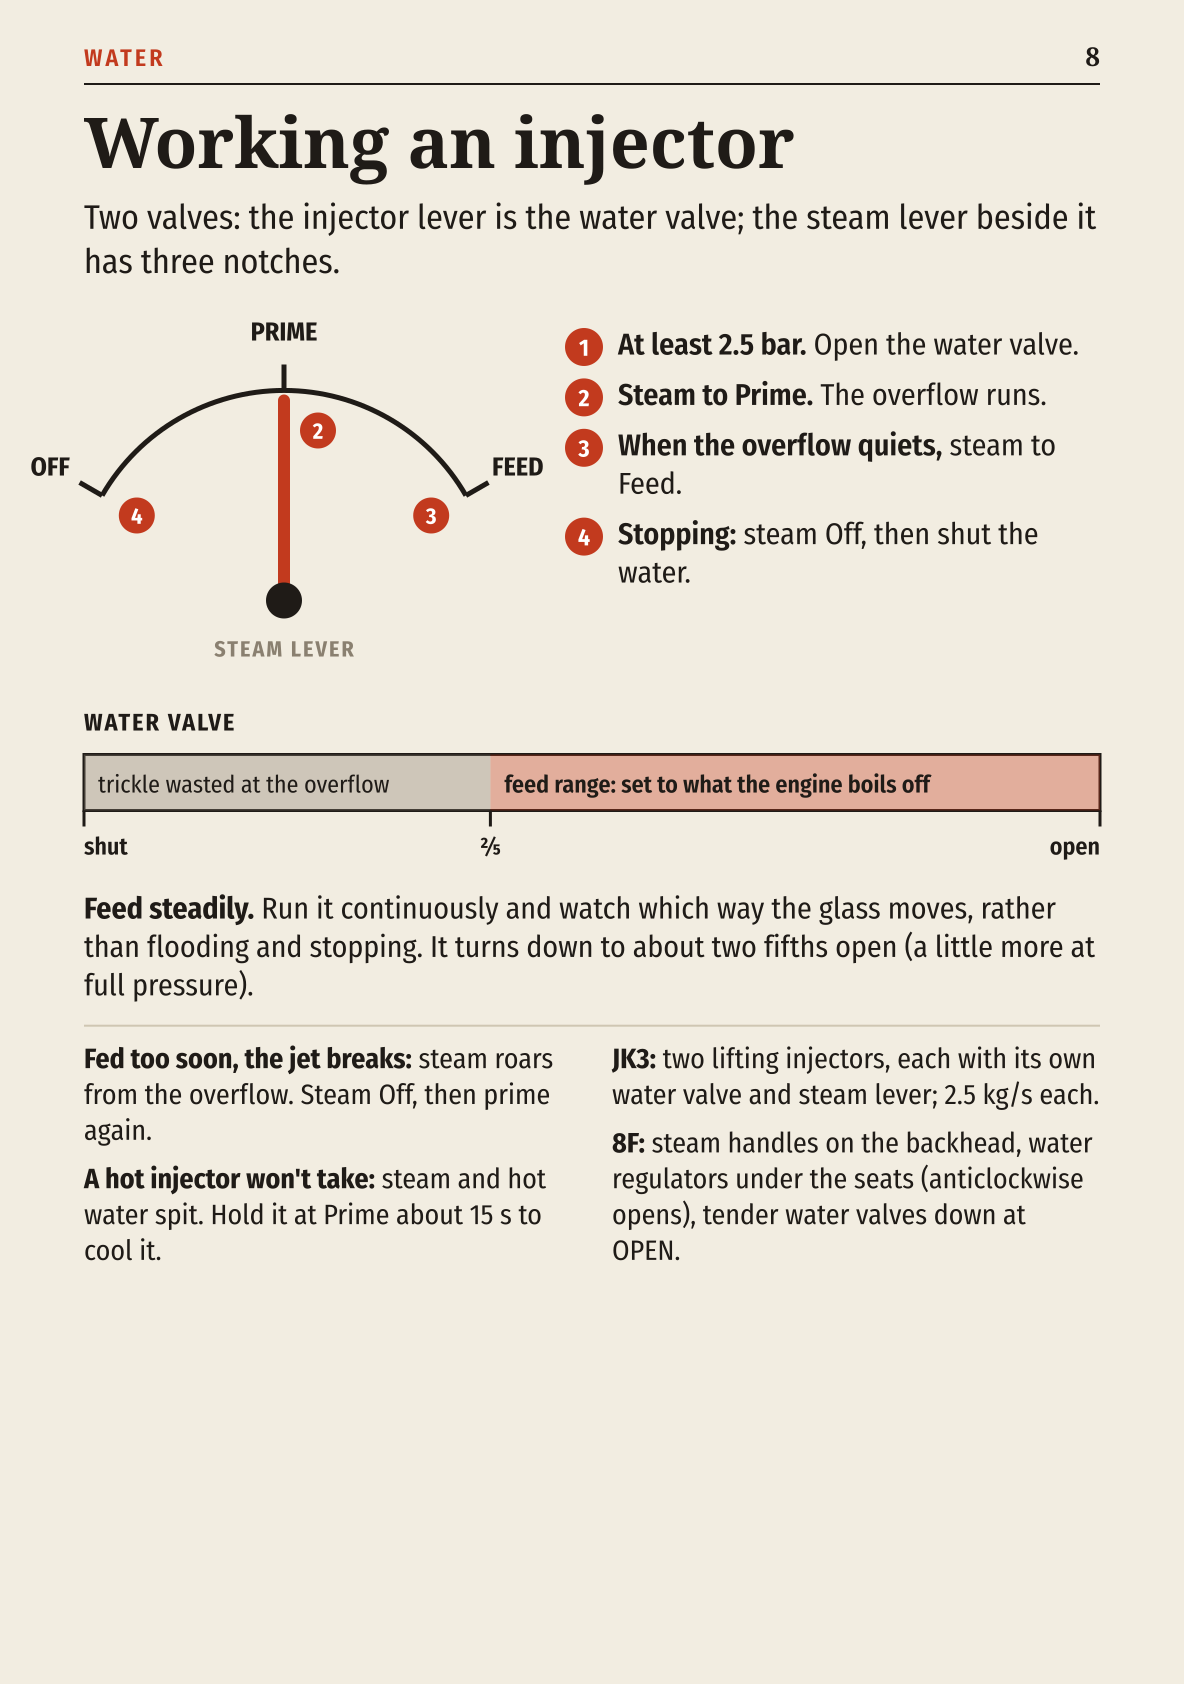
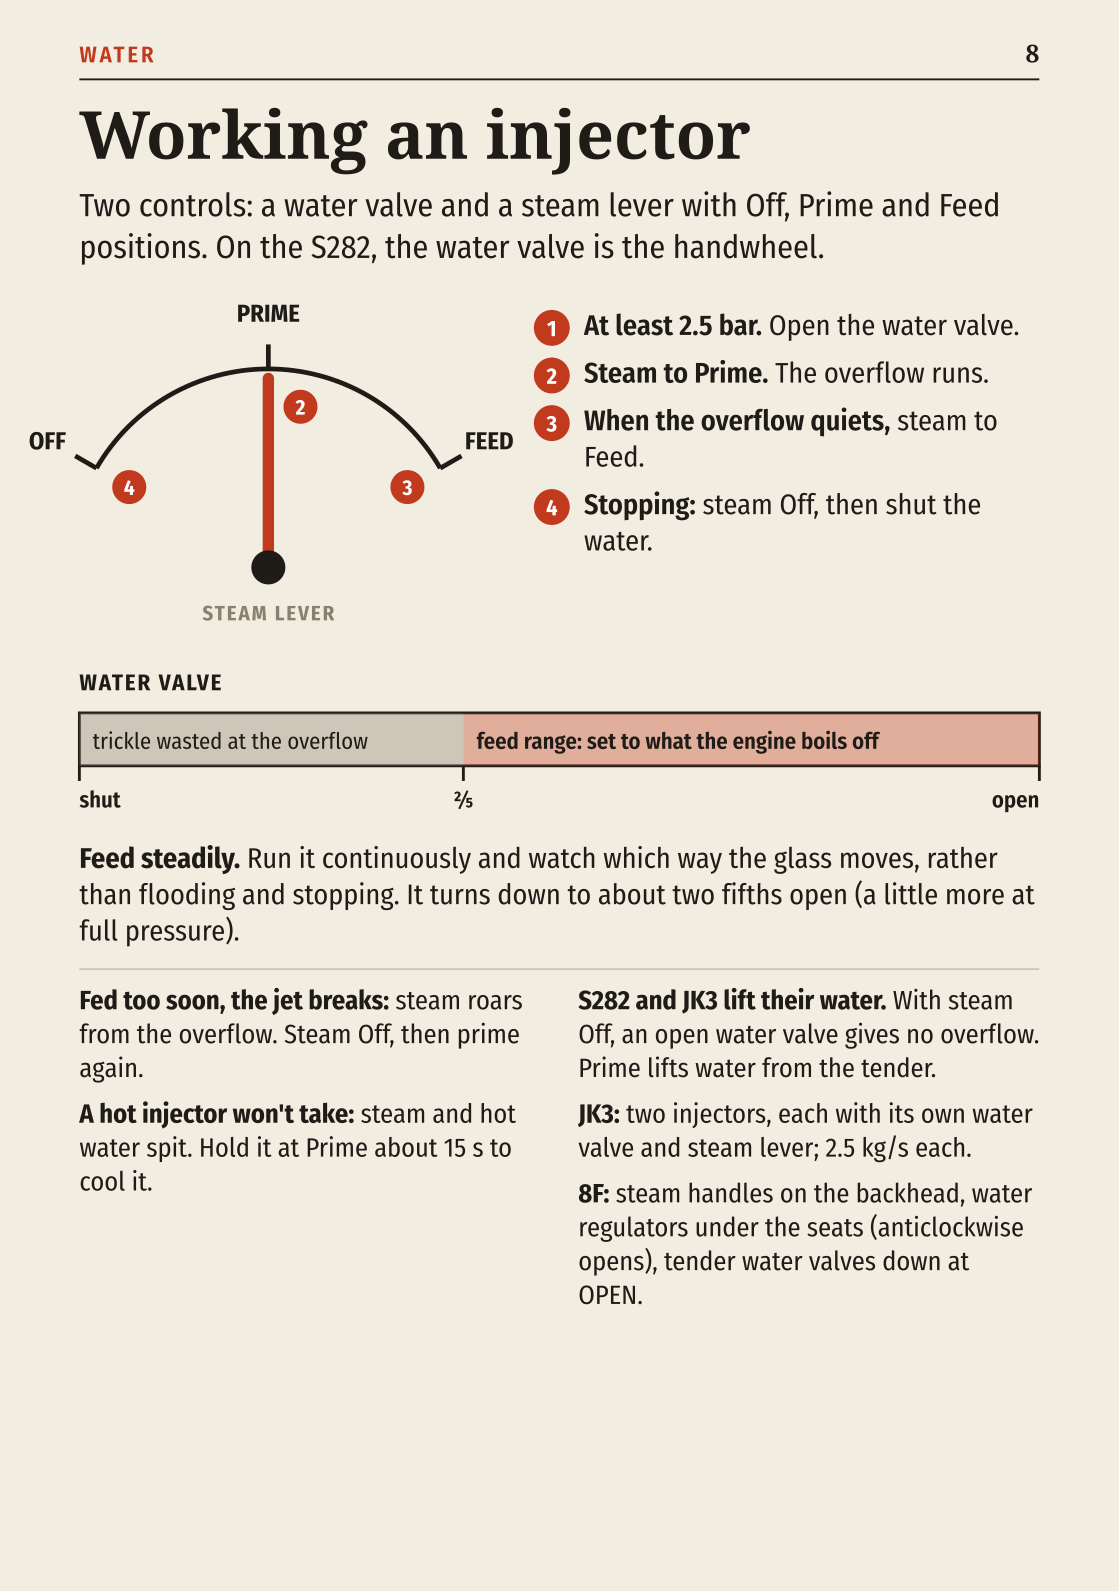
Release Realistic Firing 1.17.5 source snapshot

diff --git a/tools/RealisticFiring.AdapterCheck/Program.cs b/tools/RealisticFiring.AdapterCheck/Program.cs
@@ -161,6 +161,7 @@ namespace RealisticFiring.AdapterCheck
 
             CheckInjector(gameParams);
             CheckInjectorSteamValve(gameParams);
+            CheckInjectorSteamValve(gameParams, "LocoS282A");
             CheckJk3Injectors(gameParams);
             CheckLms8FInjectors(gameParams);
             CheckJk3Firebox(gameParams);
@@ -1851,7 +1852,7 @@ namespace RealisticFiring.AdapterCheck
 
         // An engine fitted with its own injector steam valve: the stock lever
         // is the water valve, the new control shut, primed, or wide open.
-        private static void CheckInjectorSteamValve(SimGameParams gameParams)
+        private static void CheckInjectorSteamValve(SimGameParams gameParams, string livery = "LocoS060")
         {
             var water = new Port("injector", new PortDefinition(PortType.EXTERNAL_IN, PortValueType.CONTROL, "EXT_IN"));
             var tenderWater = new Port("tender", new PortDefinition(PortType.READONLY_OUT, PortValueType.WATER, "AMOUNT"), 40000f);
@@ -1868,7 +1869,7 @@ namespace RealisticFiring.AdapterCheck
             boiler.GetAllPortReferences().Single(r => r.id == "boiler.INJECTOR").SetPortReference(water);
             boiler.GetAllPortReferences().Single(r => r.id == "boiler.WATER").SetPortReference(tenderWater);
             boiler.GetAllPortReferences().Single(r => r.id == "boiler.WATER_CONSUMPTION").SetPortReference(consumed);
-            var made = InjectorRig.TryCreate(null, boiler, "LocoS060", new SimComponent[] { boiler, steamControl }, out var note);
+            var made = InjectorRig.TryCreate(null, boiler, livery, new SimComponent[] { boiler, steamControl }, out var note);
             InjectorRig.TryGet(boiler, out var rig);
             var steam = steamControl.controlExtIn;
             InjectorFlow Run(float steamAt, float waterAt, float seconds)
@@ -1885,17 +1886,51 @@ namespace RealisticFiring.AdapterCheck
             }
             if (!made || rig == null || rig.Circuits[0].Added == null)
             {
-                Check(false, $"the S060 gets its injector steam valve ({note})");
+                Check(false, $"{livery} gets its injector steam valve ({note})");
                 return;
             }
+            rig.EndResume();
             var gravity = Run(0f, 1f, 1f);
-            Run(InjectorSpec.SteamPrime, 1f, 3f);
+            var priming = Run(InjectorSpec.SteamPrime, 1f, .5f);
+            Run(InjectorSpec.SteamPrime, 1f, 2.5f);
             var full = Run(1f, 1f, 2f);
             var part = Run(1f, 0.6f, 2f);
-            Check(gravity.State == InjectorState.Off && gravity.Overflow > 0f && full.State == InjectorState.Working
+            var lifting = livery == "LocoS282A";
+            Check(gravity.State == InjectorState.Off
+                  && (lifting ? gravity.Overflow == 0f && gravity.TenderDraw == 0f : gravity.Overflow > 0f)
+                  && rig.Circuits[0].Injector.Spec.Lifting == lifting
+                  && priming.State == InjectorState.Priming && priming.Overflow > 0f && priming.SteamUsed > 0f && priming.WaterIn == 0f
+                  && full.State == InjectorState.Working
                   && part.State == InjectorState.Working && Math.Abs(part.WaterIn / full.WaterIn - 0.6f) < 0.05f,
-                $"with its own steam valve the S060's water runs from the overflow until it is primed ({gravity.Overflow:F2} kg/s), " +
+                $"{livery}: {(lifting ? "lifting steam is required before water appears" : "water runs by gravity before priming")} ({gravity.Overflow:F2} kg/s), " +
                 $"then feeds as its water valve sets ({part.WaterIn:F2} kg/s at 60 %, {full.WaterIn:F2} wide open)");
+            var stopped = Run(0f, 1f, 1f);
+            Check(lifting ? stopped.TenderDraw == 0f && stopped.Overflow == 0f && stopped.WaterIn == 0f
+                          : stopped.Overflow > 0f && stopped.WaterIn == 0f,
+                $"{livery}: shutting steam {(lifting ? "stops lifting water with the handwheel still open" : "leaves gravity flow while the water valve is open")}");
+            Check(rig.MaxDelivery == (lifting ? 6f : 2.7f), $"{livery} retains its existing rated injector capacity");
+            if (lifting)
+            {
+                var portsBefore = Describe(boiler);
+                InjectorRig.TryCreate(null, boiler, livery, new SimComponent[] { boiler }, out _);
+                InjectorRig.TryGet(boiler, out var single);
+                Check(single.Circuits[0].Added == null && single.Circuits[0].Injector.Spec.Lifting
+                    && single.MaxDelivery == 6f && ReferenceEquals(single.Circuits[0].Control, water)
+                    && Describe(boiler) == portsBefore,
+                    "the S282 remains a lifting injector in single-control fallback without changing stock ports or delivery capacity");
+                steam.Value = 1f;
+                water.Value = .6f;
+                InjectorRig.TryCreate(null, boiler, livery, new SimComponent[] { boiler, steamControl }, out _);
+                InjectorRig.TryGet(boiler, out var resumed);
+                resumed.Simulate(.02f);
+                Check(resumed.Circuits[0].Injector.Spec.Lifting && resumed.Circuits[0].Flow.State == InjectorState.Working
+                    && resumed.Circuits[0].Flow.WaterIn > 0f && steam.Value == 1f && water.Value == .6f,
+                    "an S282 injector reconstructed with saved feeding controls resumes without re-priming or moving either valve");
+                Check(InjectorValves.Lifting("Jk3A")
+                    && new[] { "LocoS060", "em_lms_8f_loc_black", "em_lms_8f_loc_grey", "S464-730", "FEF-3", "S484-840A", "A.T.&S.F. 2901-A", "unknown", null }
+                        .All(id => !InjectorValves.Lifting(id)),
+                    "the JK3 keeps lifting and other released injector families stay unchanged");
+            }
         }
 
         private static void CheckJk3Injectors(SimGameParams gameParams)

diff --git a/src/RealisticFiring/Sim/InjectorRig.cs b/src/RealisticFiring/Sim/InjectorRig.cs
@@ -112,12 +112,6 @@ namespace RealisticFiring.Sim
 
  private static readonly Dictionary<string, float> PeriodDelivery = new Dictionary<string, float>
         {
-            // USRA light Mikado: "Nathan non-lifting injectors", size not
-            // given (RME Aug 1918 p.438); the heavy Mikado had "Hancock No. 11
-            // non-lifting injectors" (RME Sept 1918 p.494). Its 24 in. (0.61 m)
-            // cylinders take a No. 11 by Baldwin's rule, and its big boiler
-            // the next size larger: a No. 12, 5,700 gal/h (inferred). Its boiler
-            // boils about 7.5 kg/s at full rate, its throttle 6. The game's is 20.
             ["LocoS282A"] = 6f,
             // A small tank engine's: its 16.5 in. cylinders take a No. 7 by
             // Baldwin's rule, "next size larger with specially large boilers"
@@ -507,6 +501,7 @@ namespace RealisticFiring.Sim
                 new Injector(new InjectorSpec(maxRate / controls.Length, rated)
                 {
                     LeastScale = livery != null && OneLeverForTwo.Contains(livery) ? OneOfTwoLeast : 1f,
+                    Lifting = InjectorValves.Lifting(livery),
                 }),
                 controls.Length == 1 ? "" : i == 0 ? "right" : "left",
                 ports?.SingleOrDefault(p => p.id == $"injectorParticles.INJECTOR_{(i == 0 ? "R" : "L")}_PARTICLES_CLAMP")))
@@ -522,7 +517,6 @@ namespace RealisticFiring.Sim
                     if (circuits[i].Added == null)
                         continue;
                     circuits[i].OwnLeverIsSteam = InjectorValves.OwnLeverIsSteam(livery);
-                    circuits[i].Injector.Spec.Lifting = InjectorValves.Lifting(livery);
                     steamValves++;
                 }
             }

diff --git a/src/RealisticFiring/Sim/InjectorValves.cs b/src/RealisticFiring/Sim/InjectorValves.cs
@@ -36,10 +36,9 @@ namespace RealisticFiring.Sim
             "em_lms_8f_loc_black", "em_lms_8f_loc_grey",
         };
 
-        // Lifting injectors, above the tender's water: the JK3's, as Finnish
-        // engines carried (Friedmann). The American engines' are non-lifters,
-        // and so are the LMS 8F's, under the cab footsteps.
-        private static readonly HashSet<string> Lifters = new HashSet<string> { "Jk3A" };
+        // The S282's cab-mounted replacement and the JK3's lift their water.
+        // The other supported engines keep their non-lifting equipment.
+        private static readonly HashSet<string> Lifters = new HashSet<string> { "LocoS282A", "Jk3A" };
 
         /// <summary>Whether this session fits <paramref name="livery"/> with steam valves.</summary>
         public static bool Fits(string livery) => livery != null && Main.Session.InjectorSteamValves && Fitted.Contains(livery);

diff --git a/README.md b/README.md
@@ -1,6 +1,6 @@
 # Realistic Firing for Derail Valley
 
-**1.17.4** (2026-11-02): Lilla's S282 injector has a working water wheel and steam lever; ash disposal outside service areas incurs an environmental fee; the fireman handles smoke, pressure and shovel rests more carefully; pressure readings match the cab gauges. The owner tested the injector's desktop controls in game. Ash-disposal fees, the fireman changes and pressure-display corrections were checked offline, not in game. VR and live multiplayer were not tested for this update.
+**1.17.5** (2026-11-02): the S282's cab-mounted injector now lifts water with priming steam. With steam Off, opening the water wheel no longer spills water by gravity. The change was verified offline with model tests, game-adapter checks and package checks. It has not been play-tested; no new desktop, VR or live multiplayer test was run. The injector model and its controls are unchanged from 1.17.4.
 
 A Unity Mod Manager mod with zoned coal fires, mechanical stokers, oil burners,
 live-steam injectors, boiler water simulation, automatic firemen, and chimney

diff --git a/FIRING-GUIDE.md b/FIRING-GUIDE.md
@@ -248,10 +248,13 @@ and use the cab's blower (the 8F has no fitting).
 
 ## Water
 
-- **Injectors:** with at least 2.5 bar, open the water valve (the injector
-  lever), then the steam lever to Prime; when the overflow quiets, steam to
+- **Injectors:** with at least 2.5 bar, open the water valve (the S282's
+  handwheel, or the injector water lever), then the steam lever to Prime; when the overflow quiets, steam to
   Feed. Opened to Feed too soon, the jet breaks. A hot injector won't take:
   hold it at Prime to cool it. Stopping, steam Off, then shut the water.
+- **S282 and JK3 lifting injectors:** water does not run from the overflow
+  with steam Off, even with the water valve open. Prime lifts it from the
+  tender; wait for it to take hold before selecting Feed.
 - **Feed steadily** with the water valve: it turns down only to about two
   fifths open (a little more at full pressure); below that it wastes a
   trickle of water at the overflow. Run it continuously, set to what the

diff --git a/CHANGELOG.md b/CHANGELOG.md
@@ -1,5 +1,9 @@
 # Changelog
 
+## 1.17.5 (2026-11-02)
+
+- The S282's cab-mounted injector now lifts water with priming steam instead of drawing it by gravity.
+
 ## 1.17.4 (2026-11-02)
 
 - Added Lilla's S282 injector model with a working water wheel and steam lever.
